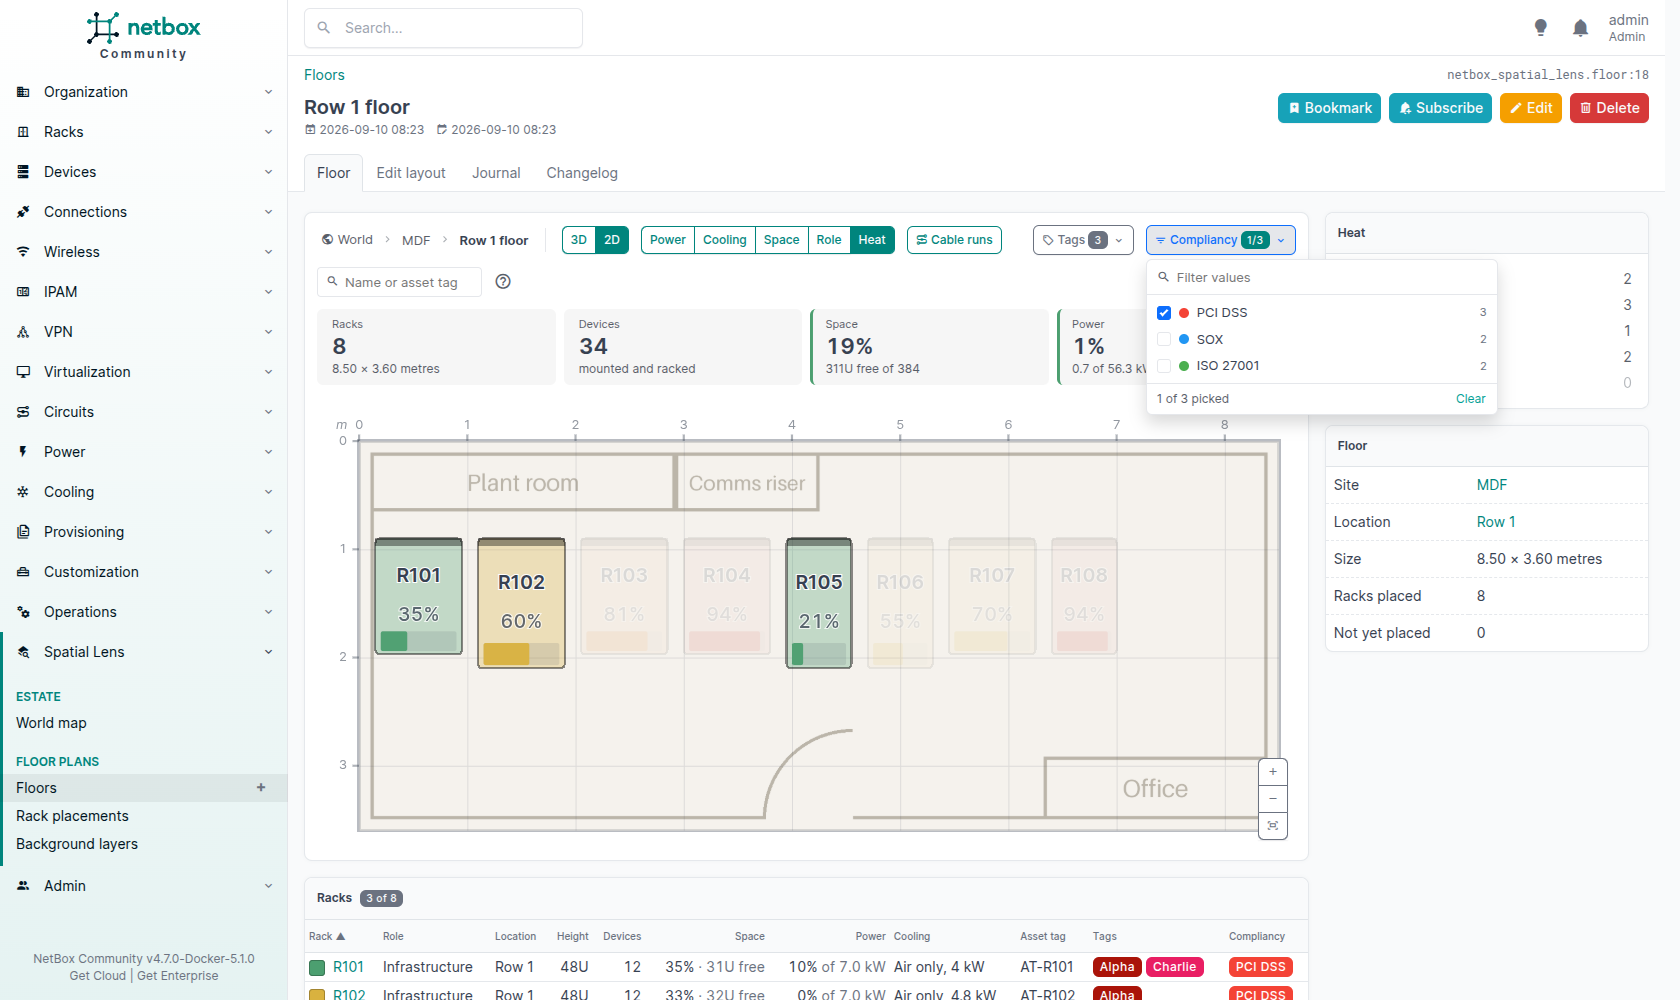
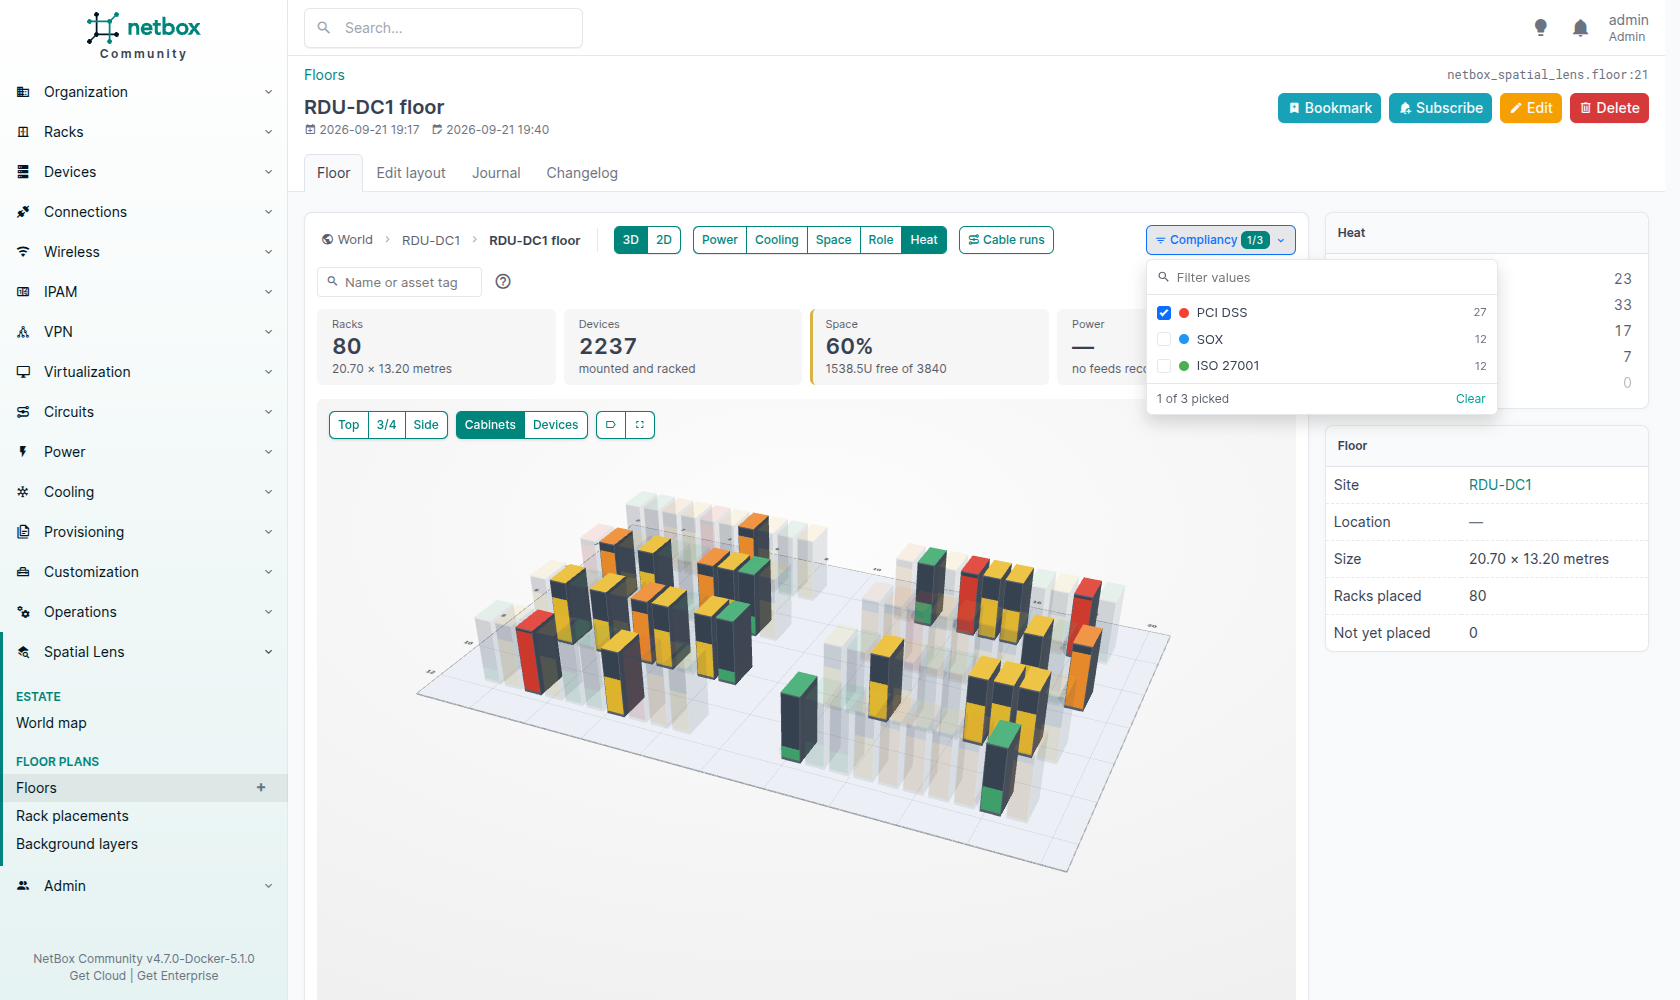
retake the 3d captures on a hall of 80 racks

diff --git a/README.md b/README.md
@@ -22,9 +22,6 @@ A lens does two things to what you point it at: it brings one place into focus, 
 
 A NetBox plugin. NetBox knows a rack's height, footprint, power feeds and cooling capability. It does not know where the rack stands in the room, and it will not colour a room by any of those values. This draws the room and colours it.
 
-> [!NOTE]
-> **Cowritten with AI.** The code, tests and documents were written with Claude, under a human's direction and review.
-
 > [!WARNING]
 > **Not stable yet.** The version is below 1.0. Models, settings and APIs can still change between releases. Read the [changelog](CHANGELOG.md) before you upgrade.
 
@@ -55,15 +52,17 @@ Every room in the site as a small plan with its own figures, on a tab of NetBox'
 
 The room in 3D, every rack a cabinet at its real position, rotation and height, coloured by **power**, **cooling**, **space** or **role**, with the reading rising up its doors and the cable runs arcing over the tops. Look from the top, at three quarters or from the side, and switch from **Cabinets** to **Devices** to see every rack open with its real devices and their front and rear images. Switch to **2D** for the plan over a scanned drawing, with zoom. Both views share a sortable rack table. Find racks by name or asset tag, narrow them by tag or custom field, and place them in the layout editor.
 
-![A row of eight cabinets standing on a metre grid, their roofs and doors coloured by how full they are, the cables leaving the row running from their tops to the walls, and the hover card of one rack](docs/images/floor-3d.png)
+![A 20.7 by 13.2 metre data hall of 80 cabinets in eight rows of ten, two blocks of four rows either side of a central aisle, their roofs and doors coloured by how full they are, the leaf to spine uplinks arcing from every rack to the two spines in row A, and the hover card of rack G04](docs/images/floor-3d.png)
 
-![Row 3 in the Devices view: eight open cabinets on the metre grid, each with its real devices and their rear panels, roofs coloured by rack role, and the hover card of one server naming its rack, type and unit](docs/images/floor-devices.png)
+![The same hall of 80 racks in the Devices view: every cabinet open with its real devices, roofs coloured by rack role, and the hover card of one switch naming its rack, type and unit](docs/images/floor-devices.png)
+
+![The hall in the Devices view with "c" in the find box: the ten racks of row C stand out with their devices and every other rack fades, and the hover card of one router in C08](docs/images/floor-devices-find.png)
 
 ### The rack
 
 The cabinet in 3D, with the real front and rear images of each device type, every cable run through the cable managers, and reserved and free units. Turn it, move it and zoom, or jump to the front, the rear or the side. Devices are coloured by **role**, **status**, **tenant**, **cabling** or **power**. Find devices by name or asset tag, and narrow them by tag or custom field. It needs WebGL and Three.js, which loads from a CDN by default or from your own copy.
 
-![A 48U cabinet seen from behind and to the side, the switch at the top and the servers below it wearing their real rear panels, the data cables dressed up one cable manager and the power leads up the other, beside the port allocation and cabling panels](docs/images/rack.png)
+![Rack C04, a 48U cabinet of 49 devices seen from behind and to the side, the switches wearing their real rear panels, the data cables dressed up one cable manager and the power leads up the other, and the two uplinks leaving through the roof, beside the port allocation and cabling panels](docs/images/rack.png)
 
 ### On every level
 

diff --git a/docs/extending.md b/docs/extending.md
@@ -78,7 +78,7 @@ def heat_overlay(racks):
 
 The result: a **Heat** button beside the built-in colourings, each rack gauged against its own cooling capacity, and the plugin's four bands in the legend.
 
-![Row 1 floor coloured by the Heat example: racks R101 to R108 gauged from 21% to 94% of their cooling capacity, with the four utilisation bands in the legend](images/extending-heat.png)
+![A hall of 80 racks coloured by the Heat example: each rack gauged against its own cooling capacity, the legend counting 23 under 50%, 33 from 50 to 74%, 17 from 75 to 89% and 7 at 90% and over, and the hover card of H05 reading 14.1 of 16.00 kW](images/extending-heat.png)
 
 ### Example: end of support in the rack view
 
@@ -112,7 +112,7 @@ def support_overlay(mounted):
 
 The result: a **Support** button beside the built-in colourings, each device in its band, and the date in its hover card.
 
-![Rack R303 from the front coloured by the Support example: servers in red, orange and green, the legend counting 2 ended, 4 ending within a year and 7 supported, and the hover card of r303-srv08 reading "Support ends 2026-01-26"](images/extending-support.png)
+![Rack C04 from the front coloured by the Support example: devices in red, orange and green, the legend counting 12 ended, 11 ending within a year and 26 supported, and the hover card of c04-srv09 reading "Support ends 2030-09-24"](images/extending-support.png)
 
 ### Example: service tier on the world map
 
@@ -198,7 +198,7 @@ PLUGINS_CONFIG = {
 
 The world map has no custom field filters.
 
-![Row 1 floor coloured by the Heat example with the Compliancy finder open: PCI DSS ticked, SOX and ISO 27001 not, each with its choice colour and count; the three PCI DSS racks stay lit and the rack table reads 3 of 8](images/extending-filter.png)
+![The hall of 80 racks coloured by the Heat example with the Compliancy finder open: PCI DSS ticked, SOX and ISO 27001 not, each with its choice colour and count; the 27 PCI DSS racks stay lit and every other rack fades](images/extending-filter.png)
 
 - The button lists the values in use on the page, with how many racks or devices carry each, in the order of the field's choices. A field with no value in use gets no button.
 - Each value wears the colour of its choice in the choice set. A choice with no colour gets one that no other value on the page wears.

diff --git a/CHANGELOG.md b/CHANGELOG.md
@@ -3,6 +3,7 @@
 ## Unreleased
 
 - **Floor Devices view:** moves more smoothly in a large room: about a quarter of the draw calls per frame on a hall of 80 racks (21,700 before with 1,500 devices, 5,700 after with 1,750). Each device is three draw groups instead of six and shares its box with devices of the same size, the devices of a rack share one chassis material and leave the shadow to the cabinet, each cabinet frame is three merged meshes, and a device's name is painted on a canvas only for a face that has no image.
+- **Docs:** retook every 3D capture on a hall of 80 racks in eight rows of ten, to show the plugin at data centre scale, and added a capture of the Devices view narrowed to one row by the find box.
 - **Docs:** `extending.md` covers colourings and custom field filters together, with a tested example and a capture for each level.
 
 ## v0.3.0 (2026-09-15)
